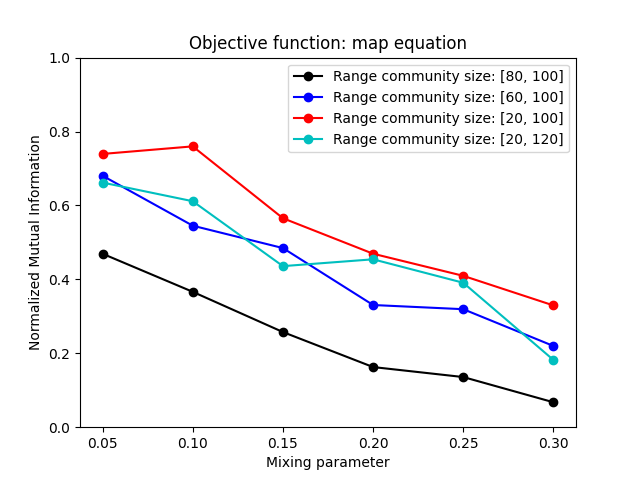
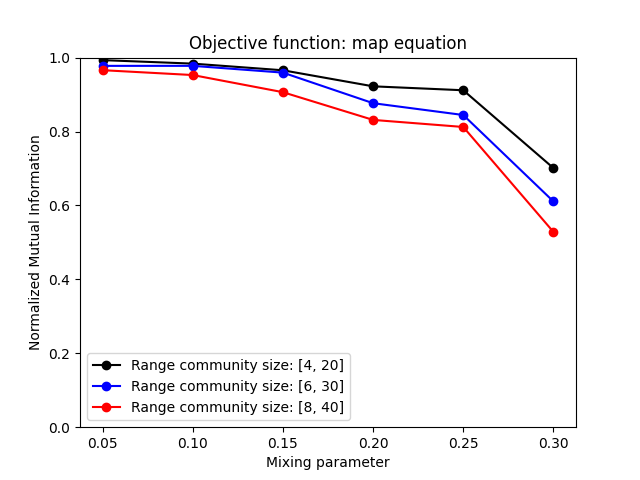
g

diff --git a/experiment/results/mu_results.tex b/experiment/results/mu_results.tex
@@ -1,75 +1,39 @@
 0.05,0.1,0.15,0.2,0.25,0.3,
-80,100,60,100,20,100,20,120,
+4,20,6,30,8,40,
 10
-0.05,0,map:0.46422856752446495,0.5078159106430382,0.39593002648233583,0.4128187249948408,0.4926965423484551,0.34673461007980383,0.49330645917648974,0.7703879933419515,0.4245875286169878,0.38461034623436924,
-0.05,0,mod:0.5090958869885034,0.6856372993660756,0.4781074795459223,0.48312899911744095,0.5781610179994292,0.482467071308051,0.4866883842610154,0.8782063702756281,0.44700359254999456,0.4879722151594146,
-0.05,0,realmod:0.5284846678019712,0.7090112017952575,0.47201206583456634,0.5327831104906116,0.5547715886990304,0.47164343835370215,0.4665213072779952,0.7319652410550148,0.48500900756606635,0.4402377853819131,
-0.05,1,map:0.7570525347693954,0.5403745704967899,0.6551914520875709,0.6792866103322717,0.7178005335966118,0.7475513709446483,0.6688083487303156,0.6194410301629499,0.6758603428022776,0.7424995647011167,
-0.05,1,mod:0.9565637284764552,0.7137425636242074,0.7979824176675924,0.8593826322500889,0.9416672854853333,0.9318599962408477,0.9160596891211346,0.8344999275123971,0.7588765404084932,0.9801096527613313,
-0.05,1,realmod:0.9036881627189278,0.6791534988418488,0.7997623097551448,0.8593826322500889,0.9416672854853332,0.9544307640028161,0.8985981647992164,0.8014755404704335,0.7405531312092323,0.956839162530632,
-0.05,2,map:0.6978571976113118,0.7370902737991742,0.875744470643575,0.8046861798987186,0.7013788210217965,0.8262663980950937,0.6339789508031063,0.681369932787271,0.6632850649330274,0.7719409246608031,
-0.05,2,mod:0.8924411278131276,0.9655271902137437,0.958060284541309,0.9086611432815301,0.8214385358265944,0.8423173657380143,0.818703573854485,0.8026917067644184,0.6567754145745863,0.8391279324823234,
-0.05,2,realmod:0.8681374025464774,0.9655271902137437,0.958060284541309,0.8775398622995908,0.8280258147820332,0.8711246037922038,0.8351278720569172,0.7951294512618964,0.7848056566996716,0.8586724553836019,
-0.05,3,map:0.4899903303132618,0.7522435255360214,0.5968188910654062,0.8388234627925968,0.35896885019711294,0.7990243010460978,0.7192028023109749,0.5141182072323969,0.7269413582412224,0.8226289251732628,
-0.05,3,mod:0.8374812599441314,0.9190444713520709,0.6832490129554598,0.961430206034899,0.480733434093302,0.8299067575320261,0.79872026455562,0.648678730427385,0.8167312313266539,0.8266074219965879,
-0.05,3,realmod:0.7557730874965588,0.9190444713520709,0.6774821441038515,0.945145603039234,0.4818262861804573,0.826681209060692,0.8090993275789494,0.6916237018424115,0.8168212825428909,0.7703669157194558,
-0.1,0,map:0.4527859051849222,0.3183056773059956,0.33919622567518354,0.3241247207755124,0.2449844886700735,0.7516162311246201,0.3300775163444727,0.2848515304379699,0.2901578986939567,0.32695814131631196,
-0.1,0,mod:0.46548353434019446,0.41992985525551313,0.3388382974017051,0.26001967997857,0.32156769638802085,0.5035008310809964,0.4609444050876033,0.3203649229633521,0.33546751385414253,0.35261577645683745,
-0.1,0,realmod:0.4535073504090606,0.23506914738466442,0.3643135407454547,0.32271642531154315,0.308183280858228,0.6857706816431659,0.359758315827513,0.37014809821492517,0.33675194838226424,0.4121635074786112,
-0.1,1,map:0.4783636412024534,0.5870525540038347,0.5595044001595533,0.6784363998694222,0.4844109757324198,0.5379018146468961,0.5437228510343894,0.4205212044087808,0.54848677977572,0.613670503295488,
-0.1,1,mod:0.4324302403489253,0.6932575560082195,0.6676967204094666,0.8158617529196771,0.5394135180930176,0.6989798932161011,0.6699352817903714,0.489903198248847,0.7771697221721938,0.7620801606405414,
-0.1,1,realmod:0.3804667166814402,0.7927178221016178,0.6375453399237067,0.8059213669492098,0.5793494909384835,0.7132029179204906,0.6881938473820167,0.49534521432359296,0.7955877039815558,0.7794832861987248,
-0.1,2,map:0.6110256413248446,0.5953785752672683,0.6778367048205711,0.7634553343479278,0.9019157302173774,0.9011784826944542,0.7630418863538979,0.8951792578503118,0.6662373716444463,0.8228794283918275,
-0.1,2,mod:0.7754747119049834,0.7173899716843098,0.8375770287681744,0.8713353205057589,0.8895565434192477,1.0,0.8858617516224806,0.8466890894553257,0.8461950531770741,0.8630575131049524,
-0.1,2,realmod:0.6824319039761236,0.7132753128486098,0.8346148681061434,0.8860140222550928,0.9348090902178562,0.9466977650572107,0.8607985005542862,0.8378433358087636,0.8232535264743654,0.9130876793325331,
-0.1,3,map:0.5945402136424629,0.5532626585081173,0.5882678940332521,0.6217618333888498,0.42946047441239704,0.6162809994699783,0.700540389457092,0.6750581017482811,0.5638547744375995,0.7710846584095181,
-0.1,3,mod:0.5613160723664432,0.7175492144390023,0.6368969427583353,0.7790346742253363,0.5303851635197754,0.5391875202576479,0.7350967374561003,0.7790335787453334,0.7226690302519925,0.8262852851343789,
-0.1,3,realmod:0.5683116738971928,0.7246578088121448,0.6108532734516605,0.8396427204050751,0.5443084395971837,0.4969584831996019,0.7631790092121525,0.8013765157758103,0.713496530432546,0.8319569605902896,
-0.15,0,map:0.2700950429138161,0.39745896598623476,0.2622137515461245,0.2511343302647218,0.25845783782089155,0.272170616574717,0.19439016135046608,0.24545568336258386,0.26896566914738756,0.15426918442473073,
-0.15,0,mod:0.3353315486904135,0.4018082883639501,0.21225793816450478,0.281821594352991,0.292327608265149,0.31848286920325214,0.1943800756442266,0.2512457154602825,0.26128217627091216,0.23279040898236278,
-0.15,0,realmod:0.22761141407265453,0.34974799050050087,0.26180735059334864,0.2174171321824096,0.346277094666391,0.25133859890786414,0.1955613909776955,0.28094136753540194,0.2555916903917809,0.18836757983704525,
-0.15,1,map:0.4158546155071181,0.5215856681306262,0.42652459539548426,0.535370979336884,0.5027694801372244,0.4341098392349484,0.45990540094493293,0.42633462352195145,0.5300193538723342,0.5942538152488549,
-0.15,1,mod:0.46894863287436456,0.6056393540785587,0.5013901823252529,0.6274336347488387,0.6591776314975263,0.43962236210697236,0.5245039650699577,0.4965031432738302,0.7067214127059023,0.6933132904989873,
-0.15,1,realmod:0.41269500935970105,0.582682389005145,0.5232755405816432,0.6810781358935089,0.655367155005621,0.5099438044707906,0.6481511381608992,0.3781857726442098,0.6050037917671045,0.6953309576577918,
-0.15,2,map:0.41361533651611115,0.7459159617834707,0.6889736296911677,0.716881633444622,0.45458103992155174,0.6927239616635005,0.4527203490349438,0.46135543501222315,0.4207118810539269,0.6065593474764469,
-0.15,2,mod:0.4160029606187044,0.7914416550056186,0.812190143944619,0.7868853040734824,0.47510812143107783,0.7167578707090906,0.41242882364919425,0.6097704624919643,0.4381699491199321,0.7014320289513706,
-0.15,2,realmod:0.3895069699815547,0.7268872000037216,0.803064051850457,0.7365158244925157,0.4595362672082574,0.6895981251325717,0.4488828543887095,0.5041303705220254,0.43790737575721383,0.709776773654323,
-0.15,3,map:0.3691077232863586,0.4462969751398835,0.532759494360728,0.1908487624745177,0.6306116922623716,0.5593918354430116,0.3685208400398421,0.3273671364139007,0.41951178468902217,0.5134698128756031,
-0.15,3,mod:0.25660038780201033,0.44008988184054654,0.7041099693164006,0.28431876354900254,0.5999908803715023,0.612354757707986,0.3300654986302858,0.30257665548985835,0.4577047969965694,0.7100674000137117,
-0.15,3,realmod:0.32221830451568956,0.40285535133406136,0.6826777365269465,0.2803198459180202,0.5756134584928281,0.5751898968002663,0.4157674249538848,0.2866385455767658,0.47355948653273544,0.6674108715915668,
-0.2,0,map:0.14679295671572098,0.14273444027953028,0.09123797834637146,0.16634751467585276,0.1587333958963587,0.17473519131802226,0.17736395463494262,0.2007774138555883,0.15084276761387538,0.21770173474052065,
-0.2,0,mod:0.175009237407605,0.1468740955751007,0.08858385840860615,0.16020244469364192,0.1388640639840673,0.12189551536532735,0.107229454407994,0.20918456359810866,0.091694780118255,0.12301841894046589,
-0.2,0,realmod:0.17483919029840683,0.12471367408281568,0.09658511212199214,0.13455232017138763,0.10783370483966845,0.163552047446889,0.14985080130357784,0.17393858498877876,0.17434308171832136,0.09681860656517274,
-0.2,1,map:0.3093568913329429,0.34946355449997984,0.20038731157737355,0.38630882873277655,0.13125590978114257,0.3826847612487095,0.42193837911367166,0.38405699947427324,0.3262669508723958,0.41417766922062377,
-0.2,1,mod:0.2975081368787493,0.3819111460940661,0.19854859274166856,0.4141687569371059,0.12014066395229948,0.4629133598654565,0.3803028642193856,0.556643371820302,0.3341591094157342,0.33390411750810617,
-0.2,1,realmod:0.35954344337290145,0.43079414938837646,0.15187102376206568,0.4564045467632894,0.10857374856233967,0.4775898485837555,0.45666239540456616,0.3308140763437321,0.3613026768868455,0.38834964034614555,
-0.2,2,map:0.3886136723241153,0.6175292282991558,0.5580871730858025,0.4303426956668943,0.7238133553527832,0.4266576106928203,0.4479775447503009,0.36132025791825045,0.2973460172354127,0.441992730335584,
-0.2,2,mod:0.38983396342797555,0.5136586288261604,0.5796055446717527,0.3090581916537577,0.7612158221543476,0.3340937055872246,0.45503196611729035,0.29243998408829003,0.33932859148875033,0.5001044697213517,
-0.2,2,realmod:0.4135264430367126,0.6619166990554072,0.5989166549245913,0.37007212542677154,0.576324079953148,0.3041829350748682,0.511732007552473,0.311226209455253,0.35066935747603434,0.5354758528211913,
-0.2,3,map:0.5007247231711892,0.6755582135844044,0.5654469406450746,0.2730922990253232,0.3626169838457829,0.441374113839294,0.5070189692334989,0.32152818396050903,0.44337589670855104,0.45175034217136384,
-0.2,3,mod:0.5459833382642729,0.679235409915807,0.4914050191312267,0.2578558849395106,0.34248357158624587,0.5162775901749128,0.5551368839503812,0.281382845178767,0.36713343260066256,0.3048486552225275,
-0.2,3,realmod:0.5635450757689648,0.6743709695062828,0.4403475363332644,0.2437454117576548,0.3761398414931545,0.5152721211273098,0.43864711031743625,0.3242463093383513,0.36991698480310725,0.30262359383901594,
-0.25,0,map:0.14699658462928977,0.1500067643299152,0.18476030786273026,0.10249743745250779,0.12713438785742087,0.11811064210302864,0.1106007491316695,0.12944976727726107,0.17849158396719011,0.10876141762667434,
-0.25,0,mod:0.026318035185301507,0.07810696094299271,0.15408317383280623,0.07078687682565411,0.09121870709582068,0.06307355943034877,0.03387884797184202,0.10162769068018346,0.07158656712291551,0.06493777856730874,
-0.25,0,realmod:0.1477128851341028,0.06370510015358005,0.15546389027443097,0.07824413265178956,0.1106061572737575,0.10185726172614626,0.015910765304483765,0.09400198169665441,0.07943702972754368,0.07671701423516274,
-0.25,1,map:0.29829203699214807,0.314942146027431,0.31657518546249674,0.3515524035281587,0.40398465533685224,0.30476122530768707,0.3489385818161373,0.35119750176238906,0.14705539502292794,0.3554674383825726,
-0.25,1,mod:0.29069208859127116,0.2991389950391528,0.23947869899944763,0.261298341557691,0.4184310907578991,0.18835175630155973,0.28677041149312926,0.3066901541454274,0.10637549729511232,0.3614739065203321,
-0.25,1,realmod:0.23987770951176998,0.33760391740536855,0.3268021642461962,0.18435459156438955,0.4020989295604707,0.32339945066609144,0.28761034026035914,0.3074750800863038,0.14085335733742166,0.3401049598746305,
-0.25,2,map:0.46365136422023123,0.4142978999045494,0.503241132371528,0.4204838990665321,0.2833577574312239,0.5132381952339913,0.29178985093951165,0.34140976446601323,0.4217661111957083,0.44200282828131343,
-0.25,2,mod:0.5256070597771642,0.3551692325880473,0.5584605331975526,0.45806714456075603,0.18206932908449164,0.5436773508733658,0.20788791318821406,0.34235849545850694,0.3782975098960462,0.5294343551504878,
-0.25,2,realmod:0.5250303480824317,0.4028000063559444,0.527676118051051,0.4818567163598813,0.25719896069093784,0.5624165260789875,0.2599568472489089,0.32839518135201223,0.4895331634560515,0.414050249057591,
-0.25,3,map:0.4715073163642234,0.4816429433811186,0.2910540628022025,0.6110161476966707,0.40707994167580774,0.39371423201244987,0.22063482580146268,0.39713924839426845,0.48577818511988174,0.1481372965911708,
-0.25,3,mod:0.5247565933591574,0.452392647252297,0.2921286906689905,0.4822887552458257,0.37994434773942226,0.2592071871406501,0.23108471590742508,0.2568389095904502,0.3751567266279958,0.1607790252026944,
-0.25,3,realmod:0.54394874541069,0.4393416593267077,0.32073942294158825,0.48101083190479194,0.2992991013123966,0.29831606366196106,0.17567928466486557,0.23179820069858043,0.37621355831783804,0.09114495380570271,
-0.3,0,map:0.034970375125552726,0.0743854598192661,0.06708512663810386,0.06500492174728616,0.1019745088175527,0.0176185461922664,0.06546101443581126,0.05924426658960073,0.11737741853565882,0.07145687208238148,
-0.3,0,mod:0.013338893153914516,0.04382991549479244,0.04013533261798314,0.04280913713485606,0.043892706559257796,0.049902848262616074,0.030991744918615817,0.039445429860981464,0.0706912007088698,0.016268613024101587,
-0.3,0,realmod:0.029777065611235824,0.0388093732784453,0.02360766522316771,0.04268533353487417,0.06845258027344625,0.049002108392998914,0.029402351861731072,0.0329874983194457,0.07325900291589856,0.038142016232962435,
-0.3,1,map:0.22363015523136565,0.201225396178643,0.20445095532522423,0.20906312465693774,0.25760871121504986,0.22562268057577048,0.308436833739232,0.17970447699823525,0.2202641123651633,0.16713134808704347,
-0.3,1,mod:0.23262173605810407,0.15634765383480415,0.11343303867587591,0.2266010033285145,0.10137824181581506,0.13042247313189448,0.19009421964645168,0.17158704667713673,0.25051891838044543,0.11735819405292681,
-0.3,1,realmod:0.22276890277428646,0.12685273936243482,0.10903161693859552,0.16338761278217895,0.14316565857779776,0.1453033759796015,0.2051066240587374,0.16954683145599753,0.1583128795377845,0.12374358246743765,
-0.3,2,map:0.36654376606833244,0.43460457747665715,0.43126668017616254,0.36741459682742833,0.22627607979950481,0.3959526367745233,0.3151058245571382,0.2584047694775655,0.3458160280202519,0.1530236408705316,
-0.3,2,mod:0.3534357469158177,0.43835086033188647,0.36916484498710317,0.31623173788984804,0.1893341341074553,0.27207127403732745,0.21118537415618446,0.2571099326261558,0.2660049395599172,0.11455649149124754,
-0.3,2,realmod:0.2933722687626961,0.41682835491051234,0.3978289479879215,0.2825818681186688,0.2032321532036468,0.2508114549291392,0.2360461548744243,0.3114781521392238,0.3354606325075927,0.13221233067801122,
-0.3,3,map:0.2592859902178199,0.1593071509478045,0.20777562688892154,0.1769315341004144,0.027411184535099376,0.06261859581021179,0.3050922327511006,0.13692089150006473,0.3929712026454533,0.09063579979790794,
-0.3,3,mod:0.15823464748956895,0.09984994808776998,0.18783354229210225,0.15414921210497828,0.04131783896351408,0.045295140379207156,0.2702901068816533,0.0823782240510665,0.23784828254577106,0.028226056241121785,
-0.3,3,realmod:0.15767541235192595,0.06671694215503927,0.17445426157802293,0.14099439780832254,0.028505938052994968,0.03824439904884086,0.29724134218869513,0.07722534079736851,0.2285312088030261,0.031493266372770515,
+0.05,0,map:1.0,0.9961039233305407,0.998133111686319,0.9954512140463424,0.9939387761269372,0.9979179257825044,0.9890626550268761,0.9917670023415466,0.9900334842457332,0.9794583181073032,
+0.05,0,mod:0.9999999999999998,0.9961039233305405,0.998133111686319,0.9891062828841797,0.993938776126937,0.9979179257825044,0.9932921684621951,0.9917670023415468,0.9935017482361799,0.9866097323010558,
+0.05,1,map:0.9930506484856859,0.9888915801739873,0.9531046006053664,0.976048905160842,0.9942362041990561,0.9745424712347017,0.9448187252121424,0.9870664789658562,0.9747518681104042,0.9897783442205138,
+0.05,1,mod:1.0,0.9941340429981206,0.9872911286534504,0.9966574380667277,0.9942362041990561,0.9910606914402771,0.9923265707876318,0.9933787697477573,0.9973915209449826,0.9938015017004626,
+0.05,2,map:1.0000000000000002,0.918077845441361,1.0000000000000002,0.9762848288986582,0.9289493310565882,0.9751583773973587,0.9876141571928355,0.9473165138197256,0.9364681228192089,0.9897132338491071,
+0.05,2,mod:0.9999999999999999,0.9949414008873635,1.0,1.0000000000000002,0.9946774949714744,1.0,0.9965106341857495,1.0,1.0,1.0,
+0.1,0,map:0.9903822331265786,0.974902107658527,0.9807190996747913,0.9768999694487962,0.9948000405582625,0.9777595103556336,0.9800549726551622,0.9881952730408715,0.9886588284166822,0.984713797762943,
+0.1,0,mod:0.9574465633057333,0.9694910600231476,0.9648183952460322,0.976932162178513,0.9698314675586591,0.9534043368999927,0.9577585075728701,0.9739295678707961,0.9637782182893472,0.9351881818411687,
+0.1,1,map:0.9753107081293346,0.9608346212822283,0.9573450886825791,0.9972646498620685,0.9777675201688456,0.9699322709439236,1.0000000000000002,0.9896800536205677,0.9694639055680112,0.979238800806817,
+0.1,1,mod:0.9868171922873029,0.9605176003643542,0.982586687896741,0.9901541202006139,0.9473607173306956,0.9792931326098716,1.0000000000000002,0.9677007950859962,0.9608716298560382,0.9940627159168804,
+0.1,2,map:0.8906203290290444,0.9733940981570732,0.9110413778706951,0.9627141180089214,0.9853918174205656,0.9590039966537531,0.974709474766347,0.9727869439520102,0.9190262499382659,0.9795538882795672,
+0.1,2,mod:0.9741155652855346,0.9725266843716717,0.983435165564862,1.0,1.0,0.9915512730740956,0.984685970891647,1.0000000000000002,0.9611649592419292,0.9891466954291256,
+0.15,0,map:0.9590374341080434,0.9773193081119154,0.9699131942286389,0.948362968631825,0.9684810171272339,0.9634350086231757,0.9478821240558555,0.9692098397558903,0.9696310063899143,0.9836394192081955,
+0.15,0,mod:0.9427792998645121,0.930125741728656,0.9233127893642599,0.941639888963332,0.9277200794573842,0.9114049199034915,0.918381137077452,0.9392497292841071,0.8778101729136987,0.9347831794011858,
+0.15,1,map:0.9758883999822487,0.911013762439961,0.9721818103181719,0.961605171378756,0.942598333513709,0.9852437703112917,0.9834211168344128,0.9285809639686327,0.9633886855661596,0.9697178845943053,
+0.15,1,mod:0.933819573101233,0.9125619138156479,0.9490509120562796,0.9574497413903824,0.92995560073931,0.9486790346527829,0.9719993265075629,0.9231643296787088,0.92265060090914,0.9721920919977206,
+0.15,2,map:0.8996172436168761,0.8974248182033597,0.8619255161103339,0.8952090699068997,0.9538120101030143,0.9152946943024858,0.8409616338905068,0.9267023433167783,0.9506685463717729,0.9226321157977337,
+0.15,2,mod:0.9508085679124387,0.9717497631572416,0.8840571317814095,0.9487798151412208,0.9711914008192667,0.9019121644439777,0.8548144378905851,0.935318652579985,0.9695393465388396,0.9491071677903269,
+0.2,0,map:0.922133003128956,0.9343364772330317,0.9300855280451596,0.926925259588393,0.9424433567494669,0.9233831379309859,0.9610156508676214,0.8698210004998858,0.933475508375072,0.8791715195192507,
+0.2,0,mod:0.8531105533017068,0.8944674854789283,0.8463813699441886,0.8863930321225807,0.8865458318717059,0.8506867838595057,0.8690558430472403,0.8233654542104855,0.8740091674086332,0.8831405593973959,
+0.2,1,map:0.8505899576885261,0.8903900710748482,0.8602687280474676,0.8762156157822294,0.9351417099061485,0.862397157294503,0.835214365352661,0.8771832989005183,0.8436754846218472,0.9353142927062488,
+0.2,1,mod:0.8509062575763936,0.8626411497329481,0.849217382842873,0.8350012678091465,0.9116291403427775,0.8335648502333808,0.7769320338589338,0.8216895660621384,0.8015361544631876,0.8767063306057036,
+0.2,2,map:0.8210642101774277,0.8917415144195096,0.8210833177348846,0.7669667418721742,0.8828471909124728,0.8348866334095274,0.8535832746647444,0.7237043014602622,0.8240765949271961,0.894101735036006,
+0.2,2,mod:0.7962861761280758,0.8961888507903532,0.8744945305907137,0.7871721973622289,0.8348173670494747,0.8798520609354986,0.8550099749477273,0.7914832548531541,0.8290672657988931,0.8981948742053172,
+0.25,0,map:0.9347003921399138,0.9242836078596482,0.8857449133724412,0.9478492365166136,0.9203393764656121,0.9283164710269034,0.9376389272224835,0.9057160238578889,0.8566184194670485,0.8752370785886129,
+0.25,0,mod:0.8579541092616177,0.8618035173744037,0.8027539449891768,0.9007410792910393,0.8459129669323484,0.8485480483499089,0.8134166770104895,0.7988063551976687,0.7558275429925636,0.8319498650114207,
+0.25,1,map:0.8782348984375798,0.8071918239313978,0.8327148651657734,0.8855593581553329,0.848476965143684,0.8627683110049021,0.7680473928351175,0.8276571665622376,0.8933760005498729,0.8427378848872089,
+0.25,1,mod:0.841526974022205,0.830995694535729,0.748784091545773,0.8186273239347576,0.8313104252029515,0.7986884975044862,0.8142670351520255,0.8180727852745701,0.8596429587934106,0.8706046628128785,
+0.25,2,map:0.8120332487331267,0.7887805435402451,0.8709313184507562,0.86101873254287,0.8222225963919657,0.8226948614987462,0.836044752177482,0.7887760303908624,0.7355534034993416,0.7848615381061753,
+0.25,2,mod:0.8555837845140963,0.7829848668782868,0.8850514781904979,0.8219025587562403,0.7500698543097019,0.8240700507899524,0.8395652019888833,0.7843671285457023,0.7550956081672019,0.7559454092514475,
+0.3,0,map:0.7077702858073313,0.6688615537543421,0.6292572218364422,0.7372246383103168,0.7875669419163445,0.7054242907456807,0.6825954320114139,0.6589482719799511,0.7333743984905258,0.6995621418330048,
+0.3,0,mod:0.5782117960277922,0.5422668105942787,0.5121071080325151,0.5755559646162235,0.7011052738066151,0.651161043515053,0.5214594840607513,0.5502470925813207,0.62544699816914,0.5284775511042171,
+0.3,1,map:0.5839278174123489,0.6789229237682836,0.6823072063747699,0.553117203873143,0.6177496268959096,0.5907138091478091,0.571062060710421,0.6245404381447741,0.5443557086701357,0.6606627486783743,
+0.3,1,mod:0.41949618528290505,0.5819652861622133,0.5992716237946768,0.444220275597203,0.5068304616748291,0.45892195302507627,0.5116677626493182,0.49812249935118796,0.4087630532190685,0.5392712939835937,
+0.3,2,map:0.4644285771208354,0.5527322213121679,0.6270636075049943,0.5117675471415775,0.3912458431456301,0.5777759801708483,0.48051828927134294,0.5167004098175924,0.49935555553042504,0.6606624453185903,
+0.3,2,mod:0.2940994049549415,0.4746122248602363,0.5335932244572269,0.40397202218628636,0.26048850939652357,0.4752577219495621,0.3589389215833585,0.3895267730052,0.39396821555537925,0.5177404626500882,
